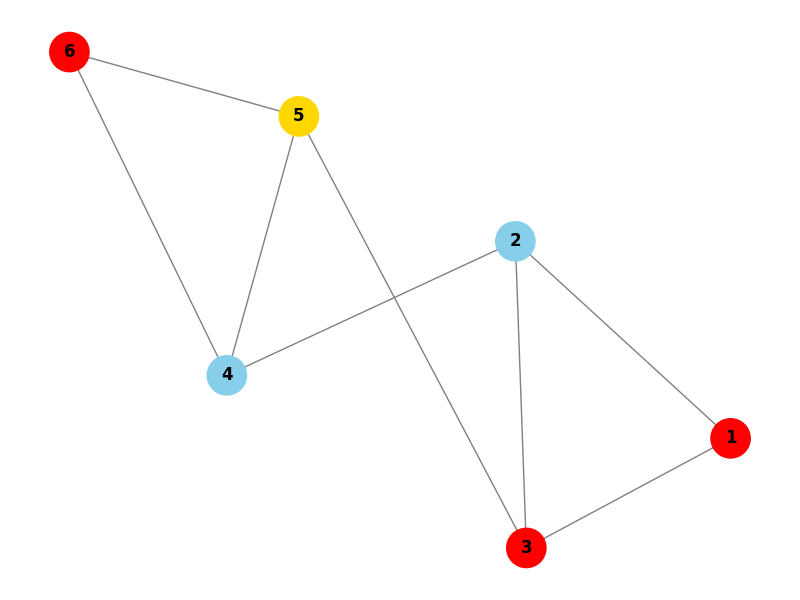
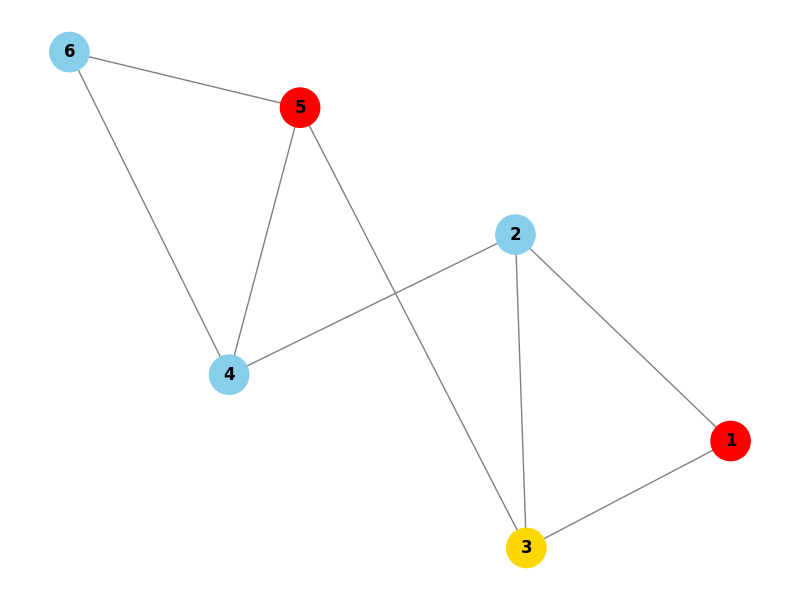
Reset fixed

diff --git a/main.html b/main.html
@@ -337,7 +337,6 @@ footer{border-top:.5px solid var(--border);padding:3rem 4rem;display:flex;align-
           <button class="ctrl-btn primary" id="btn-send" onclick="userSendPacket()">🐝 Auto Packet</button>
           <button class="ctrl-btn secondary" id="btn-queen" onclick="queenVisit()">👑 Queen Tour</button>
           <button class="ctrl-btn danger" id="btn-fail" onclick="failRandomNode()">💥 Fail Random</button>
-          <button class="ctrl-btn secondary" onclick="resetAll()">↺ Reset</button>
           <div class="speed-wrap">Speed: <select id="speedSel" onchange="SPEED=parseFloat(this.value)"><option value="0.5">0.5×</option><option value="1">1×</option><option value="1.5" selected>1.5×</option><option value="2">2×</option></select></div>
         </div>
       </div>
@@ -500,6 +499,7 @@ document.querySelectorAll('.reveal').forEach(r=>obs.observe(r));
 ══════════════════════════════════════ */
 function apiBase(){return document.getElementById('apiBase').value.replace(/\/$/,'');}
 let apiConnected=false;
+let syncLocked=false;  // Prevents sync from overwriting a fresh reset
 
 async function apiCall(method,path,body=null){
   const url=apiBase()+path;
@@ -550,7 +550,7 @@ async function checkApiConnection(){
 }
 
 async function syncFromBackend(){
-  if(!apiConnected)return;
+  if(!apiConnected||syncLocked)return;
   const res=await apiCall('GET','/status');
   if(!res.ok)return;
   const nodes=res.data;
@@ -734,13 +734,25 @@ async function sceneChaos(){
 }
 
 async function sceneReset(){
-  log('↺ API → POST /elect_queen + full reset','info');
+  log('↺ API → POST /reset — full backend + frontend reset','info');
+  // Block the periodic sync so it cannot stomp our clean state
+  syncLocked = true;
+
   if(apiConnected){
-    await apiCall('POST','/elect_queen');
-    await syncFromBackend();
+    const res = await apiCall('POST','/reset');
+    if(res.ok){
+      const newQ = res.data.new_queen;
+      // Clear all failed flags before resetAll runs
+      Object.values(ND).forEach(n=>{n.failed=false;n.queen=false;});
+      if(newQ && ND[newQ]) ND[newQ].queen = true;
+      log(`♛ Backend reset — new queen: Node ${newQ}`,'queen');
+    }
   }
   resetAll();
-  log('✓ Network restored to initial state','success');
+  log('✓ Network fully restored to initial state','success');
+
+  // Re-enable sync after backend settles
+  setTimeout(()=>{ syncLocked = false; }, 2000);
 }
 
 /* ─── FIRE ANIMATION helper ─── */

diff --git a/main.py b/main.py
@@ -419,6 +419,25 @@ def get_topology():
     })
 
 
+@app.route("/reset", methods=["POST"])
+def api_reset():
+    """Full network reset: restore all nodes to initial state and re-elect queen."""
+    global queen_id, failed_nodes
+
+    with queen_lock:
+        failed_nodes = set()
+        for node_id, node in nodes.items():
+            node.status    = "normal"
+            node.is_queen  = False
+            node.load      = 0
+            node.route_scores = {nb: 1 for nb in node.neighbors}
+
+    new_queen = elect_queen(nodes, reason="reset")
+    visualize_network(graph, highlight_queen=new_queen,
+                      failed_nodes=set(), filename="network_initial.png")
+    return jsonify({"message": "Network reset", "new_queen": new_queen})
+
+
 # ============================================================
 # MAIN
 # ============================================================
